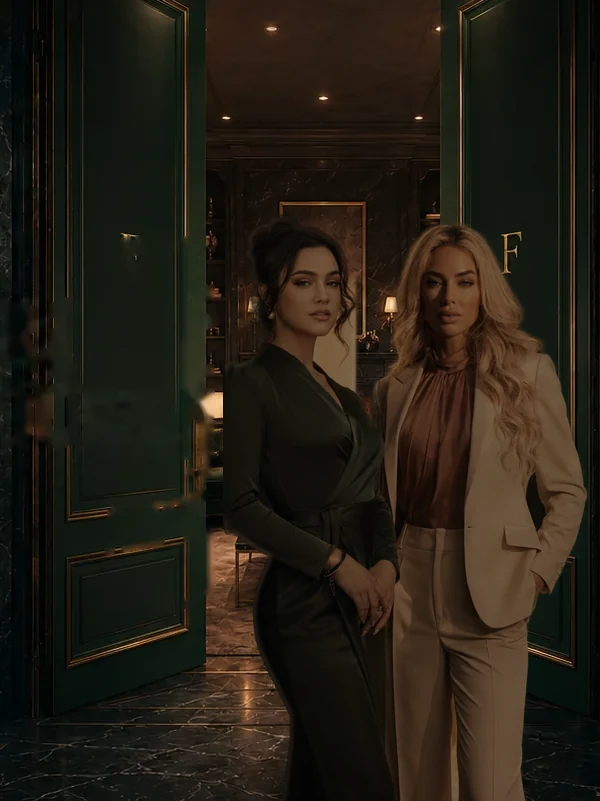
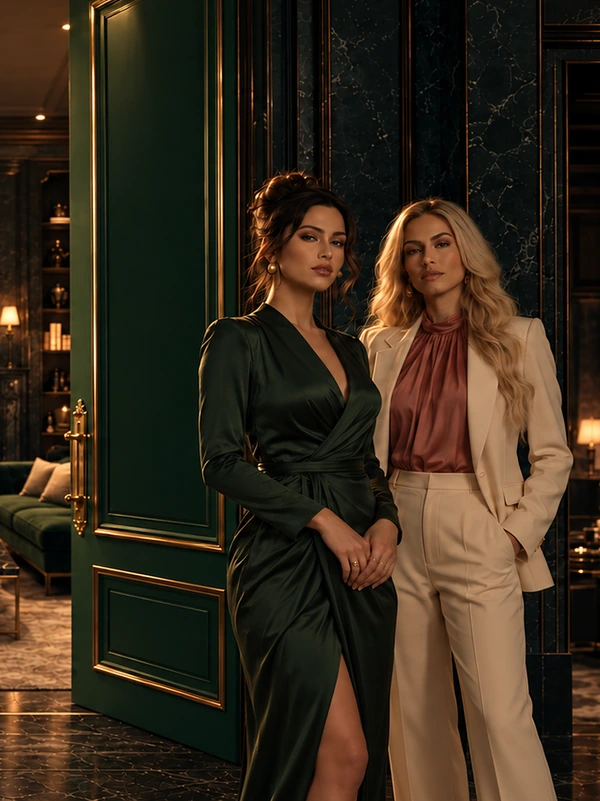
Homepage hero: Shelby's threshold frame
Replaces yesterday's composite, which stood the two models into the empty
room by matting them out of another shot. This is a real frame — both women
at the threshold, doors open on the firelit lounge — so nothing here is
matted, graded or faked. Only the two plates are cut.

Both crops are dictated by how the page renders them, not by taste. Desktop
takes cy 0.62: the ceiling gives less than the floor does, and the floor's
reflection of the doors is what makes the room feel deep. It keeps the women
clear of the #0a2523 gradient the page lays over the left 62% for the copy,
and holds the doorway and fire in the middle where object-[58%_center] crops
to.

Mobile takes cx 0.92. The blonde runs to the right edge of the source, so
the pair cannot be centred without clipping her; 0.92 keeps them both whole
with the near door's gilt edge holding the left of the frame. Lower cuts her
arm, and 1.0 loses the door and leaves two figures on a flat wall.

Claude-Session: https://claude.ai/code/session_01Ur261Wsau2RympRHJCG9oK

diff --git a/src/lib/rooms.ts b/src/lib/rooms.ts
@@ -48,7 +48,7 @@ export const ROOMS: Room[] = [
     pathname: "/",
     hero: {
       src: "/editorial/rooms/threshold-doors.webp",
-      alt: "Two women standing at the threshold of the FOUNDER house — one in a deep green wrap dress, one in a cream suit and rust silk — beside two tall emerald doors with a brass F on each leaf, open onto a firelit sitting room behind them.",
+      alt: "Two women standing at the threshold of the FOUNDER house — one in a deep green silk wrap dress, one in a cream suit and rose silk blouse — beside tall emerald and gilt doors standing open on a firelit sitting room, candles on the table and the fire burning behind them.",
       position: "58% center",
     },
     heroMobile: { src: "/editorial/rooms/threshold-doors-m.webp" },
